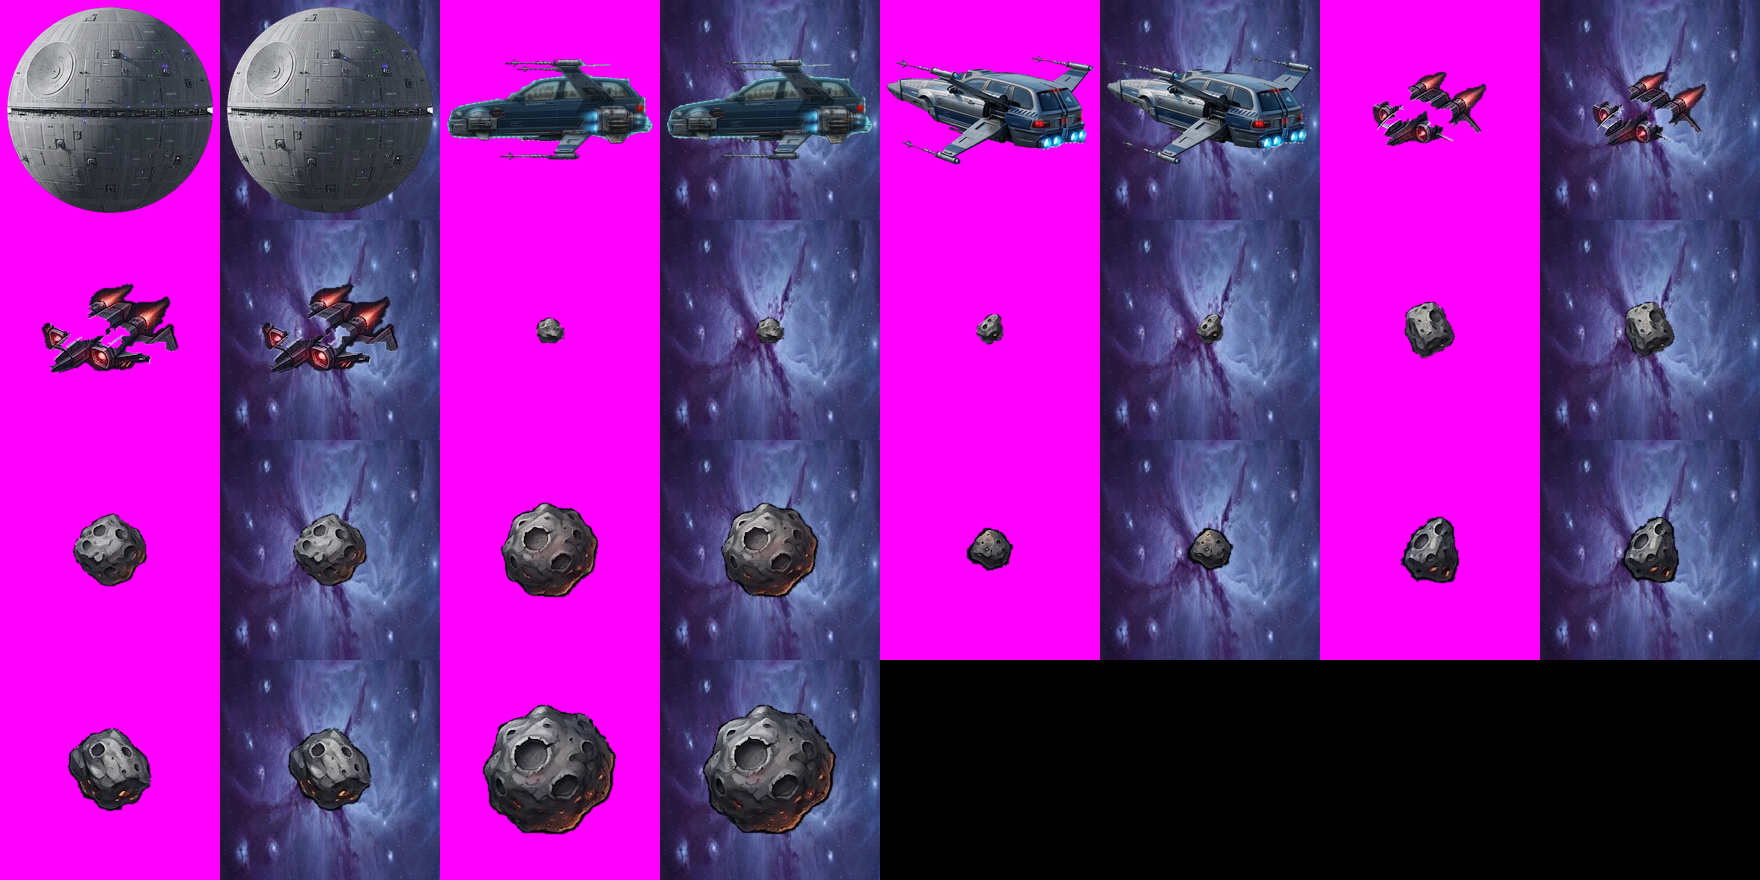
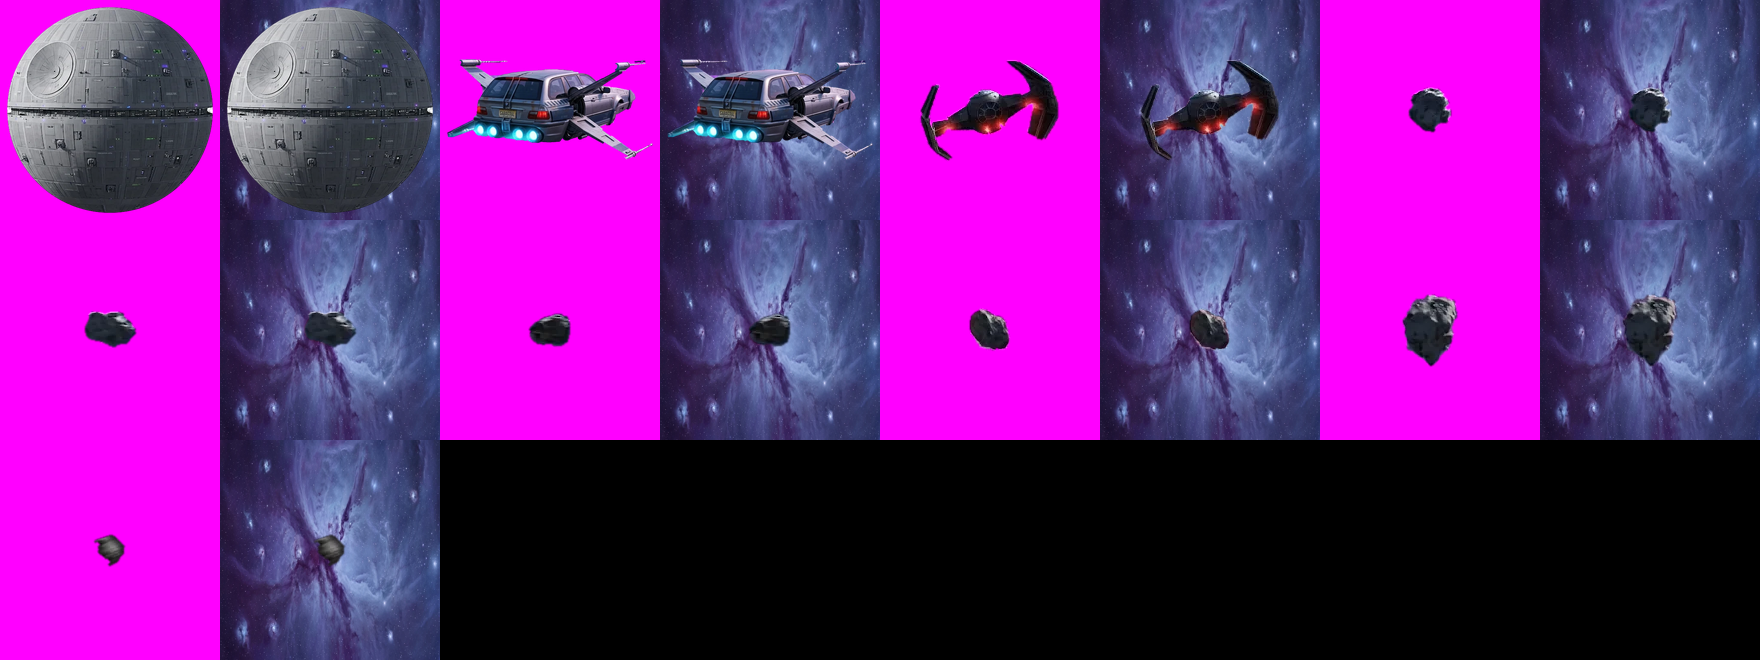
feat(orbital): photoreal E46, fighter and rocks; bigger, slower capital ship
The cartoon side-view E46, sprite-sheet fighters and rocks are replaced with mattes cut from
the photoreal scene renders (GrabCut with hand hints for the E46, low-chroma mattes for the
rocks, edges unmixed against an inpainted background). Photographic sprites no longer spin
like flat cards: they only lean into turns, and depth comes from scale and the far grade.
The capital ship orbit is now massive and slow (0.46 of the short side, 16 min a lap).

diff --git a/command center/src/features/sysmap/space/space-engine.ts b/command center/src/features/sysmap/space/space-engine.ts
@@ -49,12 +49,12 @@ export const BACKDROP_CONFIG = {
   returnFireRate: 1.7,
   shipOpacity: 0.78,
   /** E46 drawn width at depth 1 (fighters sized to match it, not dwarfed by it). */
-  e46Size: 0.17,
-  enemySize: 0.11,
+  e46Size: 0.2,
+  enemySize: 0.085,
   /** The capital ship's slow elliptical orbit in the far background. */
-  capitalShipSize: 0.17,
-  capitalShipOpacity: 0.34,
-  capitalOrbitPeriod: 420,
+  capitalShipSize: 0.46,
+  capitalShipOpacity: 0.42,
+  capitalOrbitPeriod: 960,
   debrisCount: 8,
   debrisOpacity: 0.5,
   /** Additive glow strength for bolts, trails and thrusters (0–1.5). */
@@ -486,7 +486,9 @@ export class SpaceEngine {
   }
 
   private newShip(player: boolean, role: Ship["role"], cruise: number): Ship | null {
-    const side = player ? this.sprites.get("e46_side") : this.sprites.get(pick(["enemy_fighter_1", "enemy_fighter_2"].filter((n) => this.sprites.has(n))) ?? "");
+    // Photoreal E46: the rear 3/4 render alone unless a side render is also present.
+    const e46Side = this.sprites.get("e46_side");
+    const side = player ? (e46Side ?? this.sprites.get("e46_rear")) : this.sprites.get(pick(["enemy_fighter_1", "enemy_fighter_2"].filter((n) => this.sprites.has(n))) ?? "");
     if (!side) return null;
     const width = (player ? BACKDROP_CONFIG.e46Size : BACKDROP_CONFIG.enemySize) * this.minSide;
     // Fighters are lighter and more agile than the E46; both bleed speed in hard turns.
@@ -494,7 +496,7 @@ export class SpaceEngine {
     return {
       player,
       side,
-      rear: player ? (this.sprites.get("e46_rear") ?? null) : null,
+      rear: player && e46Side ? (this.sprites.get("e46_rear") ?? null) : null,
       width,
       x: -9999,
       y: -9999,
@@ -1037,20 +1039,18 @@ export class SpaceEngine {
     let anchor: Ship["draw"] = null;
     for (const [sp, mixA] of layers) {
       if (!sp.v || mixA < 0.02) continue;
-      const enemy = !s.player;
       // Mirror so the art always faces the direction of travel, then rotate the remainder.
       const facesLeft = Math.cos(sp.meta.nose) < 0;
       const goingLeft = Math.cos(s.heading) < 0;
       const mirror = facesLeft !== goingLeft;
       const nose = mirror ? Math.PI - sp.meta.nose : sp.meta.nose;
-      const lim = enemy ? Math.PI : 0.5;
-      const rot = clamp(wrapAngle(s.heading - nose), -lim, lim) + (enemy ? 0 : bank * 0.5);
+      // Photographic renders are lit and shot from one camera angle: they lean into the turn but
+      // never spin like flat cards. Depth comes from scale, haze and the far-plane grade.
+      const rot = clamp(wrapAngle(s.heading - nose), -0.32, 0.32) + bank * 0.5;
       const sy = 1 - Math.min(0.28, Math.abs(bank) * 0.6);
       const w = s.width * s.z * (sp === s.rear ? 0.9 : 1);
       const h = w * sp.aspect;
-      // Sheet-art fighters lean on the soft far-plane bake so they sit in the photographic
-      // space with the E46 instead of reading as crisp cartoons.
-      const nearK = smooth(0.45, 0.75, s.z) * (enemy ? 0.45 : 1);
+      const nearK = smooth(0.45, 0.75, s.z);
       const m = mirror ? 1 : 0;
       const nearImg = sp.v[0][m] ?? sp.v[0][0];
       const farImg = sp.v[1][m] ?? sp.v[1][0];

diff --git a/command center/src/features/sysmap/space/space-assets.ts b/command center/src/features/sysmap/space/space-assets.ts
@@ -9,8 +9,8 @@
  *
  *   Sprites: command center/src/assets/orbital-sprites/
  *     True-alpha PNG, trimmed. Produced from the originals in `assets-src/orbital/` by
- *     `scripts/orbital-assets.py` (checkerboard removal, sprite-sheet slicing). Roles come
- *     from the filename: `e46_side`, `e46_rear`, `death_star`, `capital_ship`, `enemy_fighter_*`,
+ *     `scripts/orbital-assets.py` (checkerboard removal, photoreal mattes). Roles come
+ *     from the filename: `e46_rear` (optional `e46_side`), `death_star`, `capital_ship`, `enemy_fighter_*`,
  *     `asteroid_*`.
  *     Orientation and engine positions for each role live in SPRITE_META below.
  *
@@ -28,7 +28,7 @@ export const DROP_IN_BACKDROPS: readonly string[] = Object.keys(backdropUrls)
   .sort()
   .map((k) => backdropUrls[k]);
 
-/** Sprite URL by basename (`e46_side`, `asteroid_3`, …). */
+/** Sprite URL by basename (`e46_rear`, `asteroid_3`, …). */
 export const SPRITE_URLS: ReadonlyMap<string, string> = new Map(Object.entries(spriteUrls).map(([k, url]) => [baseName(k), url] as const));
 
 export interface SpriteMeta {
@@ -42,15 +42,13 @@ export interface SpriteMeta {
 
 /** Per-role art facts, measured on the processed PNGs. */
 export const SPRITE_META: Readonly<Record<string, SpriteMeta>> = {
-  // Side profile: nose left; main nacelle exhaust at the right end, upper wing pod above it.
-  e46_side: { nose: Math.PI, thrusters: [[0.95, 0.64], [0.65, 0.06]], bakeWidth: 320 },
-  // Rear 3/4 (GABAGOUL plate side): travelling away towards the upper left; four tail engines.
-  e46_rear: { nose: Math.PI + 0.42, thrusters: [[0.754, 0.767], [0.817, 0.767], [0.903, 0.741], [0.955, 0.719]], bakeWidth: 320 },
-  // Sheet fighters: nose lower-left, flames upper-right.
-  enemy_fighter_1: { nose: 2.76, thrusters: [[0.44, 0.25], [0.79, 0.43]], bakeWidth: 150 },
-  enemy_fighter_2: { nose: 2.76, thrusters: [[0.46, 0.26], [0.71, 0.46]], bakeWidth: 150 },
+  // Photoreal rear 3/4 (from the rear-scene render): travelling away towards the right, four
+  // tail engines under the GABAGOUL plate.
+  e46_rear: { nose: -0.3, thrusters: [[0.163, 0.704], [0.23, 0.709], [0.35, 0.735], [0.424, 0.742]], bakeWidth: 420 },
+  // Photoreal fighter (from the dogfight render): cockpit towards the viewer, heading lower left.
+  enemy_fighter_1: { nose: 2.7, thrusters: [], bakeWidth: 150 },
   death_star: { nose: 0, thrusters: [], bakeWidth: 340 },
-  // Capital ship 3/4 render: rounded bow upper-left, engine cluster lower-right.
+  // Gabagoul capital ship 3/4 render: rounded bow upper-left, engine cluster lower-right.
   capital_ship: { nose: Math.PI + 0.32, thrusters: [[0.8, 0.66], [0.87, 0.53], [0.94, 0.6], [0.9, 0.78]], bakeWidth: 300 },
 };
 export const ASTEROID_BAKE_WIDTH = 96;

diff --git a/command center/scripts/orbital-assets.py b/command center/scripts/orbital-assets.py
@@ -1,5 +1,5 @@
 """
-Orbital Ecosystem asset prep: fake-transparency removal, sprite-sheet slicing, wallpaper copy.
+Orbital Ecosystem asset prep: fake-transparency removal, photoreal mattes, wallpaper copy.
 
     python -I "command center/scripts/orbital-assets.py"            (from the repo root)
 
@@ -8,7 +8,9 @@ Reads the untouched originals in `command center/assets-src/orbital/` and writes
   src/assets/orbital-sprites/     true-alpha PNG sprites (trimmed, edge-decontaminated)
   assets-src/orbital/_review.png  every sprite over magenta and over a nebula, for eyeballing
 
-Needs Pillow, numpy, scipy. Re-runnable: outputs are overwritten.
+Photoreal ships and rocks are matted out of the scene renders (`e46-rear-scene`,
+`dogfight-scene`) with GrabCut plus hand hints; the old cartoon sheet fighters and rocks are
+retired. Needs Pillow, numpy, scipy, opencv-python. Re-runnable: outputs are overwritten.
 """
 from pathlib import Path
 import shutil
@@ -16,6 +18,7 @@ import shutil
 import numpy as np
 from PIL import Image
 from scipy import ndimage as ndi
+import cv2
 
 ROOT = Path(__file__).resolve().parents[1]
 SRC = ROOT / "assets-src" / "orbital"
@@ -27,23 +30,6 @@ WALLPAPERS = {
     "nebula-amber-dust.webp": "02-amber-dust-nebula.webp",
     "milky-way.webp": "03-milky-way.webp",
 }
-
-# Sprite sheet boxes (x0, y0, x1, y1) in the 1024×572 sheet, from a connected-component pass.
-# The flaming meteor, burning asteroid, lasers, flares and shard cluster are skipped on purpose.
-SHEET = {
-    "enemy_fighter_1": (586, 50, 772, 182),  # stops above the "ASTEROIDS" label box
-    "enemy_fighter_2": (796, 50, 998, 210),  # stops above asteroid_5
-    "asteroid_1": (528, 249, 565, 283),
-    "asteroid_2": (579, 248, 614, 287),
-    "asteroid_3": (629, 234, 687, 298),
-    "asteroid_4": (697, 226, 779, 307),
-    "asteroid_5": (788, 214, 893, 317),
-    "asteroid_6": (36, 464, 91, 516),
-    "asteroid_7": (90, 451, 156, 525),
-    "asteroid_8": (158, 440, 250, 531),
-    "asteroid_9": (366, 406, 507, 544),
-}
-
 
 def rgb(path: Path) -> np.ndarray:
     return np.asarray(Image.open(path).convert("RGB")).astype(np.float32)
@@ -163,29 +149,79 @@ def strip_checker(path: Path, sphere: bool = False, glass: bool = False) -> Imag
     return finish(im, alpha, bgc)
 
 
-def slice_sheet(path: Path) -> dict:
+# Photoreal rocks in the dogfight render (x0, y0, x1, y1), found as grey low-chroma blobs:
+# whole, unlit by laser hits, away from the frame edge.
+DOGFIGHT_ROCKS = [
+    (921, 131, 963, 175), (945, 176, 996, 211), (945, 216, 986, 248),
+    (671, 302, 710, 343), (748, 336, 802, 407), (24, 428, 55, 459),
+]
+FIGHTER_BOX = (770, 186, 915, 305)
+
+
+def grabcut(path: Path, rect, hints=None, iters: int = 8) -> Image.Image:
+    """Matte one object off a painted background: GrabCut, optional hints, soft edge, decontaminate."""
+    bgr = cv2.imread(str(path))
+    x0, y0, x1, y1 = rect
+    pad = 14
+    X0, Y0 = max(x0 - pad, 0), max(y0 - pad, 0)
+    X1, Y1 = min(x1 + pad, bgr.shape[1]), min(y1 + pad, bgr.shape[0])
+    c = np.ascontiguousarray(bgr[Y0:Y1, X0:X1])
+    mask = np.zeros(c.shape[:2], np.uint8)
+    bgd, fgd = np.zeros((1, 65)), np.zeros((1, 65))
+    cv2.grabCut(c, mask, (x0 - X0, y0 - Y0, x1 - x0, y1 - y0), bgd, fgd, 6, cv2.GC_INIT_WITH_RECT)
+    if hints:
+        hints(c, mask, (X0, Y0))
+        cv2.grabCut(c, mask, None, bgd, fgd, iters, cv2.GC_INIT_WITH_MASK)
+    fg = np.isin(mask, [1, 3]).astype(np.uint8)
+    n, lab, st, _ = cv2.connectedComponentsWithStats(fg)
+    if n > 1:
+        big = st[1:, 4].max()
+        fg = np.isin(lab, 1 + np.where(st[1:, 4] > max(300, big * 0.02))[0]) if hints else lab == 1 + st[1:, 4].argmax()
+    fg = fg.astype(bool)
+    # Local background behind the edge: inpaint the object away, then unmix edge pixels from it.
+    bg = cv2.inpaint(c, ndi.binary_dilation(fg, iterations=2).astype(np.uint8), 5, cv2.INPAINT_TELEA)
+    alpha = ndi.gaussian_filter(fg.astype(np.float32), 0.8)
+    alpha = np.where(ndi.binary_erosion(fg, iterations=2), 1.0, alpha).astype(np.float32)
+    rgbc = c[..., ::-1].astype(np.float32)
+    return finish(rgbc, alpha, bg[..., ::-1].astype(np.float32))
+
+
+def rock_cut(path: Path, rect) -> Image.Image:
+    """Grey rock on a saturated nebula: low chroma is the matte."""
     im = rgb(path)
-    out = {}
-    for name, (x0, y0, x1, y1) in SHEET.items():
-        c = im[y0:y1, x0:x1]
-        r, g, b = c[..., 0], c[..., 1], c[..., 2]
-        lum = 0.299 * r + 0.587 * g + 0.114 * b
-        # Navy panel + its lighter grid lines: blue-dominant and darkish.
-        cand = ((b - r) > 20) & (lum < 120)
-        bg = border_connected(cand)
-        fg = ~bg
-        fg = ndi.binary_fill_holes(fg)
-        lab, n = ndi.label(fg)
-        if n:
-            sizes = ndi.sum(fg, lab, range(1, n + 1))
-            fg = np.isin(lab, 1 + np.where(sizes >= sizes.max() * 0.08)[0])
-        alpha = ndi.gaussian_filter(fg.astype(np.float32), 0.6)
-        alpha = np.where(ndi.binary_erosion(fg, iterations=1), 1.0, alpha).astype(np.float32)
-        # The fighters' baked flame cones stay: their dark outlines share the hull's tones, so
-        # cutting them leaves holes. The engine's far-plane grade and thrust bloom cover them.
-        bgc = np.median(c[bg], 0) if bg.any() else np.array([14, 26, 46], np.float32)
-        out[name] = finish(c, alpha, bgc)
-    return out
+    x0, y0, x1, y1 = rect
+    pad = 8
+    X0, Y0, X1, Y1 = max(x0 - pad, 0), max(y0 - pad, 0), min(x1 + pad, im.shape[1]), min(y1 + pad, im.shape[0])
+    c = im[Y0:Y1, X0:X1]
+    chroma, lum = c.max(-1) - c.min(-1), c.mean(-1)
+    m = ndi.binary_fill_holes(ndi.binary_opening(ndi.binary_closing((chroma < 38) & (lum > 22) & (lum < 170), iterations=2)))
+    lab, n = ndi.label(m)
+    fg = lab == (np.bincount(lab.ravel())[1:].argmax() + 1)
+    bg = cv2.inpaint(np.ascontiguousarray(c.astype(np.uint8)), ndi.binary_dilation(fg, iterations=2).astype(np.uint8), 5, cv2.INPAINT_TELEA)
+    alpha = ndi.gaussian_filter(fg.astype(np.float32), 0.8)
+    alpha = np.where(ndi.binary_erosion(fg, iterations=2), 1.0, alpha).astype(np.float32)
+    return finish(c, alpha, bg.astype(np.float32))
+
+
+def e46_hints(c: np.ndarray, mask: np.ndarray, off) -> None:
+    """Rear-scene E46: drop the nebula glow and ion plume, keep the thin lower-left wing and guns."""
+    X0, Y0 = off
+    b, g, r = (c[..., i].astype(int) for i in range(3))
+    yy, xx = np.mgrid[: c.shape[0], : c.shape[1]]
+    xx, yy = xx + X0, yy + Y0
+    fg0 = np.isin(mask, [1, 3])
+    magenta = (r > g + 35) & (b > g + 35)
+    plume = (b > r + 50) & (g > r + 30) & ((xx < 222) | (yy > 420))
+    mask[:] = np.where(fg0, cv2.GC_PR_FGD, cv2.GC_BGD)
+    mask[(magenta | plume) & fg0] = cv2.GC_BGD
+    mask[(yy >= 398) & (yy < 440) & (xx >= 280) & (xx < 420)] = cv2.GC_BGD
+    sl = lambda x0, y0, x1, y1: (slice(y0 - Y0, y1 - Y0), slice(x0 - X0, x1 - X0))
+    mask[sl(260, 150, 560, 330)] = cv2.GC_FGD
+    mask[sl(560, 200, 760, 330)] = cv2.GC_FGD
+    poly = np.array([(126, 368), (129, 384), (148, 384), (236, 352), (234, 318), (224, 318)]) - (X0, Y0)
+    cv2.fillPoly(mask, [poly.astype(np.int32)], int(cv2.GC_FGD))
+    cv2.line(mask, (250 - X0, 98 - Y0), (326 - X0, 98 - Y0), int(cv2.GC_FGD), 3)
+    cv2.line(mask, (840 - X0, 98 - Y0), (878 - X0, 96 - Y0), int(cv2.GC_FGD), 3)
 
 
 def review(sprites: dict) -> None:
@@ -211,9 +247,9 @@ def main() -> None:
         shutil.copyfile(SRC / src, WALL / dst)
     sprites = {
         "death_star": strip_checker(SRC / "death-star-checker.webp", sphere=True),
-        "e46_side": strip_checker(SRC / "e46-side-checker.webp", glass=True),
-        "e46_rear": strip_checker(SRC / "e46-rear34-checker.webp"),
-        **slice_sheet(SRC / "sprite-sheet.webp"),
+        "e46_rear": grabcut(SRC / "e46-rear-scene.webp", (115, 78, 925, 493), e46_hints),
+        "enemy_fighter_1": grabcut(SRC / "dogfight-scene.webp", FIGHTER_BOX),
+        **{f"asteroid_{i + 1}": rock_cut(SRC / "dogfight-scene.webp", box) for i, box in enumerate(DOGFIGHT_ROCKS)},
     }
     # Optional: the capital ship that orbits in the far background.
     capital = next(iter(sorted(SRC.glob("capital-ship-checker.*"))), None)

diff --git a/command center/src/assets/orbital-sprites/README.md b/command center/src/assets/orbital-sprites/README.md
@@ -7,15 +7,18 @@ originals in `assets-src/orbital/`. Don't hand-edit these. Re-run the script ins
 
 | File | Source | Notes |
 |------|--------|-------|
-| `e46_side.png` | `e46-side-checker.webp` | hero, side profile; checkerboard removed, see-through glass smoothed |
-| `e46_rear.png` | `e46-rear34-checker.webp` | hero, rear 3/4; shown when the ship banks away into the distance |
+| `e46_rear.png` | `e46-rear-scene.webp` | photoreal hero, rear 3/4; GrabCut matte with hand hints, ion plume and nebula glow dropped |
+| `enemy_fighter_1.png` | `dogfight-scene.webp` | photoreal fighter, GrabCut matte |
+| `asteroid_1.png` … `asteroid_6.png` | `dogfight-scene.webp` | photoreal rocks, matted by low chroma against the nebula |
 | `death_star.png` | `death-star-checker.webp` | circle-masked with an anti-aliased edge |
-| `enemy_fighter_1.png`, `enemy_fighter_2.png` | `sprite-sheet.webp` | sliced from the sheet |
-| `asteroid_1.png` … `asteroid_9.png` | `sprite-sheet.webp` | sliced; flaming meteor and burning rock skipped |
+| `capital_ship.png` | `capital-ship-checker.*` | optional; the Gabagoul capital ship, checkerboard removed. Drop the original in to enable it |
 
-Not used: `e46-rear-scene.webp` (the GABAGOUL plate render has a nebula, ships and a station baked
-into it, so it can't be cut cleanly) and `dogfight-scene.webp` (a full scene). The sheet's lasers,
-flares and shards are skipped too: the engine draws those procedurally.
+Retired for looking like cartoons next to the photoreal art: `e46-side-checker.webp`,
+`e46-rear34-checker.webp` and `sprite-sheet.webp` (kept in `assets-src/` but unused). Lasers,
+flares, trails and sparks are drawn procedurally by the engine.
+
+Edges are unmixed from the local background (inpainted behind the object), so no nebula fringe
+rides along. A new `e46_side.png` would be picked up again as the side view.
 
 Roles come from the filename. Each role's facing direction and engine positions are in
 `src/features/sysmap/space/space-assets.ts` → `SPRITE_META`. Update them if you replace a sprite
